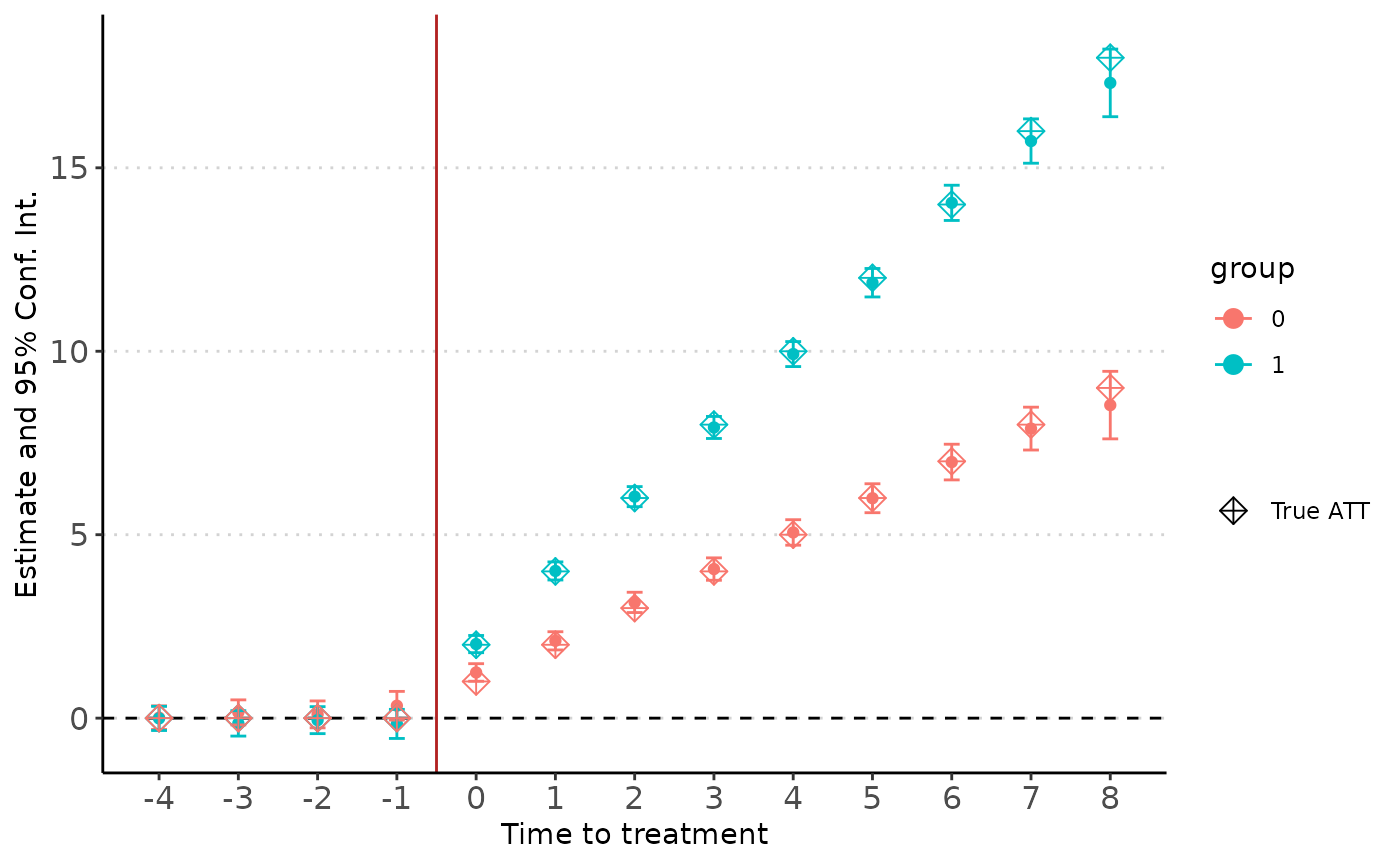
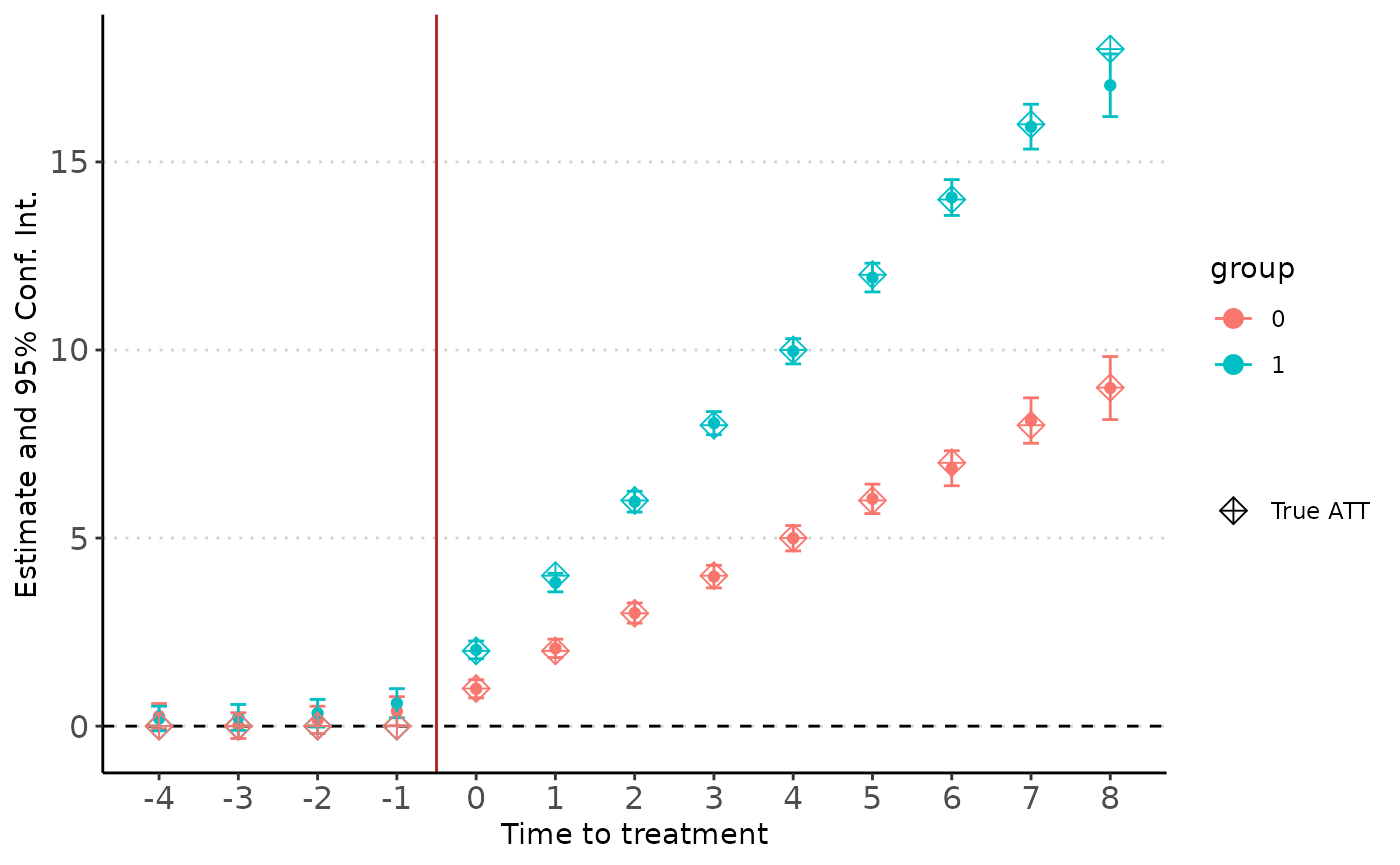
Built site for didImputation: 0.0.4@c97bc9d

diff --git a/articles/Getting_started.html b/articles/Getting_started.html
@@ -175,33 +175,33 @@
 <span class="co">#&gt; Counterfactual model:  y ~ 0 | i + t </span>
 <span class="co">#&gt; Number of cohorts:  4 </span>
 <span class="co">#&gt; Observations: 12000 </span>
-<span class="co">#&gt; |-Treated:    5543 </span>
-<span class="co">#&gt; |-Untreated:  6457 </span>
+<span class="co">#&gt; |-Treated:    5501 </span>
+<span class="co">#&gt; |-Untreated:  6499 </span>
 <span class="co">#&gt;       Estimate Std. Error t value Pr(&gt;|t|) </span>
-<span class="co">#&gt; k::-3 -0.034   0.139      -0.241  0.809    </span>
-<span class="co">#&gt; k::-2 -0.030   0.155      -0.192  0.848    </span>
-<span class="co">#&gt; k::-1  0.062   0.181       0.341  0.733    </span>
-<span class="co">#&gt; k::0   1.058   0.077      13.811  &lt;0.001***</span>
-<span class="co">#&gt; k::1   2.006   0.083      24.305  &lt;0.001***</span>
-<span class="co">#&gt; k::2   3.254   0.104      31.293  &lt;0.001***</span>
-<span class="co">#&gt; k::3   4.271   0.134      31.955  &lt;0.001***</span>
-<span class="co">#&gt; k::4   5.000   0.185      27.020  &lt;0.001***</span>
+<span class="co">#&gt; k::-3 -0.158   0.139      -1.131  0.258    </span>
+<span class="co">#&gt; k::-2 -0.173   0.155      -1.116  0.265    </span>
+<span class="co">#&gt; k::-1 -0.154   0.181      -0.854  0.393    </span>
+<span class="co">#&gt; k::0   0.922   0.074      12.485  &lt;0.001***</span>
+<span class="co">#&gt; k::1   2.066   0.080      25.720  &lt;0.001***</span>
+<span class="co">#&gt; k::2   3.065   0.100      30.761  &lt;0.001***</span>
+<span class="co">#&gt; k::3   4.018   0.125      32.188  &lt;0.001***</span>
+<span class="co">#&gt; k::4   5.088   0.182      28.009  &lt;0.001***</span>
 <span class="co">#&gt; ---</span>
 <span class="co">#&gt; Signif. Code: 0 '***' 0.01 '**' 0.05 '*' 0.1 '' 1 </span>
 <span class="co">#&gt; Wald stats for pre-trends:</span>
-<span class="co">#&gt; Wald (joint nullity): stat = 0.377011, p = 0.769591, on 3 and 6,448 DoF, VCOV: Clustered (i).</span></code></pre></div>
+<span class="co">#&gt; Wald (joint nullity): stat = 0.522024, p = 0.667123, on 3 and 6,490 DoF, VCOV: Clustered (i).</span></code></pre></div>
 <p>You can extract the coefficients table if you want to build your own plot or table.</p>
 <div class="sourceCode" id="cb6"><pre class="downlit sourceCode r">
 <code class="sourceCode R"><span class="va">est</span><span class="op">$</span><span class="va">coeftable</span>
-<span class="co">#&gt;          Estimate Std. Error    t value      Pr(&gt;|t|)</span>
-<span class="co">#&gt; k::-3 -0.03361813 0.13923807 -0.2414435  8.092361e-01</span>
-<span class="co">#&gt; k::-2 -0.02976078 0.15499751 -0.1920081  8.477554e-01</span>
-<span class="co">#&gt; k::-1  0.06174339 0.18121068  0.3407271  7.333448e-01</span>
-<span class="co">#&gt; k::0   1.05767218 0.07658118 13.8111232  2.183995e-43</span>
-<span class="co">#&gt; k::1   2.00583547 0.08252862 24.3047242 1.747357e-130</span>
-<span class="co">#&gt; k::2   3.25436686 0.10399612 31.2931575 5.781895e-215</span>
-<span class="co">#&gt; k::3   4.27119274 0.13366080 31.9554623 4.536532e-224</span>
-<span class="co">#&gt; k::4   4.99965532 0.18503234 27.0204409 8.502296e-161</span></code></pre></div>
+<span class="co">#&gt;         Estimate Std. Error    t value      Pr(&gt;|t|)</span>
+<span class="co">#&gt; k::-3 -0.1576485 0.13932973 -1.1314782  2.579896e-01</span>
+<span class="co">#&gt; k::-2 -0.1725236 0.15465355 -1.1155489  2.647494e-01</span>
+<span class="co">#&gt; k::-1 -0.1542718 0.18072744 -0.8536156  3.934203e-01</span>
+<span class="co">#&gt; k::0   0.9224779 0.07388426 12.4854459  8.963968e-36</span>
+<span class="co">#&gt; k::1   2.0661605 0.08033218 25.7202101 6.946557e-146</span>
+<span class="co">#&gt; k::2   3.0654385 0.09965361 30.7609379 8.731689e-208</span>
+<span class="co">#&gt; k::3   4.0176418 0.12481845 32.1878851 2.607775e-227</span>
+<span class="co">#&gt; k::4   5.0884042 0.18166843 28.0092926 1.252075e-172</span></code></pre></div>
 <p>Finally, we can plot the coefficients from the fully dynamic model using the <code>didplot</code> function (note that you can choose the confidence interval level to report). The results are very close to the true effects:</p>
 <div class="sourceCode" id="cb7"><pre class="downlit sourceCode r">
 <code class="sourceCode R"><span class="fu"><a href="../reference/didplot.html">didplot</a></span><span class="op">(</span><span class="va">est</span><span class="op">)</span> <span class="op">+</span>
@@ -224,21 +224,21 @@
 <span class="co">#&gt; Counterfactual model:  y ~ 0 | i + t </span>
 <span class="co">#&gt; Number of cohorts:  4 </span>
 <span class="co">#&gt; Observations: 12000 </span>
-<span class="co">#&gt; |-Treated:    5543 </span>
-<span class="co">#&gt; |-Untreated:  6457 </span>
+<span class="co">#&gt; |-Treated:    5501 </span>
+<span class="co">#&gt; |-Untreated:  6499 </span>
 <span class="co">#&gt;       Estimate Std. Error t value Pr(&gt;|t|) </span>
-<span class="co">#&gt; k::-3 -0.034   0.139      -0.241  0.809    </span>
-<span class="co">#&gt; k::-2 -0.030   0.155      -0.192  0.848    </span>
-<span class="co">#&gt; k::-1  0.062   0.181       0.341  0.733    </span>
-<span class="co">#&gt; k::0   1.058   0.077      13.811  &lt;0.001***</span>
-<span class="co">#&gt; k::1   2.006   0.083      24.305  &lt;0.001***</span>
-<span class="co">#&gt; k::2   3.254   0.104      31.293  &lt;0.001***</span>
-<span class="co">#&gt; k::3   4.271   0.134      31.955  &lt;0.001***</span>
-<span class="co">#&gt; k::4   5.000   0.185      27.020  &lt;0.001***</span>
+<span class="co">#&gt; k::-3 -0.158   0.139      -1.131  0.258    </span>
+<span class="co">#&gt; k::-2 -0.173   0.155      -1.116  0.265    </span>
+<span class="co">#&gt; k::-1 -0.154   0.181      -0.854  0.393    </span>
+<span class="co">#&gt; k::0   0.922   0.074      12.485  &lt;0.001***</span>
+<span class="co">#&gt; k::1   2.066   0.080      25.720  &lt;0.001***</span>
+<span class="co">#&gt; k::2   3.065   0.100      30.761  &lt;0.001***</span>
+<span class="co">#&gt; k::3   4.018   0.125      32.188  &lt;0.001***</span>
+<span class="co">#&gt; k::4   5.088   0.182      28.009  &lt;0.001***</span>
 <span class="co">#&gt; ---</span>
 <span class="co">#&gt; Signif. Code: 0 '***' 0.01 '**' 0.05 '*' 0.1 '' 1 </span>
 <span class="co">#&gt; Wald stats for pre-trends:</span>
-<span class="co">#&gt; Wald (joint nullity): stat = 0.377011, p = 0.769591, on 3 and 6,448 DoF, VCOV: Clustered (i).</span></code></pre></div>
+<span class="co">#&gt; Wald (joint nullity): stat = 0.522024, p = 0.667123, on 3 and 6,490 DoF, VCOV: Clustered (i).</span></code></pre></div>
 </div>
 <div id="including-other-fixed-effects" class="section level2">
 <h2 class="hasAnchor">
@@ -262,21 +262,21 @@
 <span class="co">#&gt; Counterfactual model:  y ~ 0 | i + t + hdfefactor </span>
 <span class="co">#&gt; Number of cohorts:  4 </span>
 <span class="co">#&gt; Observations: 12000 </span>
-<span class="co">#&gt; |-Treated:    5582 </span>
-<span class="co">#&gt; |-Untreated:  6418 </span>
+<span class="co">#&gt; |-Treated:    5546 </span>
+<span class="co">#&gt; |-Untreated:  6454 </span>
 <span class="co">#&gt;       Estimate Std. Error t value Pr(&gt;|t|) </span>
-<span class="co">#&gt; k::-3  0.017   0.142       0.118  0.906    </span>
-<span class="co">#&gt; k::-2 -0.051   0.162      -0.315  0.753    </span>
-<span class="co">#&gt; k::-1  0.022   0.189       0.117  0.907    </span>
-<span class="co">#&gt; k::0   0.939   0.075      12.489  &lt;0.001***</span>
-<span class="co">#&gt; k::1   1.989   0.082      24.344  &lt;0.001***</span>
-<span class="co">#&gt; k::2   2.952   0.102      28.892  &lt;0.001***</span>
-<span class="co">#&gt; k::3   3.900   0.130      29.917  &lt;0.001***</span>
-<span class="co">#&gt; k::4   4.853   0.188      25.851  &lt;0.001***</span>
+<span class="co">#&gt; k::-3 -0.080   0.137      -0.583  0.56     </span>
+<span class="co">#&gt; k::-2 -0.113   0.154      -0.732  0.464    </span>
+<span class="co">#&gt; k::-1  0.222   0.181       1.222  0.222    </span>
+<span class="co">#&gt; k::0   0.979   0.075      12.975  &lt;0.001***</span>
+<span class="co">#&gt; k::1   2.040   0.082      25.006  &lt;0.001***</span>
+<span class="co">#&gt; k::2   2.926   0.104      28.084  &lt;0.001***</span>
+<span class="co">#&gt; k::3   4.083   0.133      30.783  &lt;0.001***</span>
+<span class="co">#&gt; k::4   5.411   0.185      29.305  &lt;0.001***</span>
 <span class="co">#&gt; ---</span>
 <span class="co">#&gt; Signif. Code: 0 '***' 0.01 '**' 0.05 '*' 0.1 '' 1 </span>
 <span class="co">#&gt; Wald stats for pre-trends:</span>
-<span class="co">#&gt; Wald (joint nullity): stat = 0.297358, p = 0.827338, on 3 and 6,370 DoF, VCOV: Clustered (i).</span></code></pre></div>
+<span class="co">#&gt; Wald (joint nullity): stat = 4.89599, p = 0.002119, on 3 and 6,406 DoF, VCOV: Clustered (i).</span></code></pre></div>
 </div>
 <div id="including-continuous-controls" class="section level2">
 <h2 class="hasAnchor">
@@ -300,28 +300,28 @@
 <span class="co">#&gt; Counterfactual model:  y ~ x1 | i + t </span>
 <span class="co">#&gt; Number of cohorts:  8 </span>
 <span class="co">#&gt; Observations: 20000 </span>
-<span class="co">#&gt; |-Treated:    9802 </span>
-<span class="co">#&gt; |-Untreated:  10198 </span>
+<span class="co">#&gt; |-Treated:    9718 </span>
+<span class="co">#&gt; |-Untreated:  10282 </span>
 <span class="co">#&gt;       Estimate Std. Error t value Pr(&gt;|t|) </span>
-<span class="co">#&gt; k::-5 -0.067   0.103       -0.651 0.515    </span>
-<span class="co">#&gt; k::-4  0.111   0.105        1.056 0.291    </span>
-<span class="co">#&gt; k::-3  0.069   0.116        0.594 0.552    </span>
-<span class="co">#&gt; k::-2  0.076   0.127        0.598 0.55     </span>
-<span class="co">#&gt; k::-1  0.195   0.140        1.400 0.162    </span>
-<span class="co">#&gt; x1     2.007   0.011      178.775 &lt;0.001***</span>
-<span class="co">#&gt; k::0   0.875   0.063       13.918 &lt;0.001***</span>
-<span class="co">#&gt; k::1   2.041   0.066       30.879 &lt;0.001***</span>
-<span class="co">#&gt; k::2   2.891   0.073       39.832 &lt;0.001***</span>
-<span class="co">#&gt; k::3   3.913   0.083       47.422 &lt;0.001***</span>
-<span class="co">#&gt; k::4   4.917   0.093       52.790 &lt;0.001***</span>
-<span class="co">#&gt; k::5   5.946   0.105       56.839 &lt;0.001***</span>
-<span class="co">#&gt; k::6   7.013   0.128       54.910 &lt;0.001***</span>
-<span class="co">#&gt; k::7   7.926   0.160       49.445 &lt;0.001***</span>
-<span class="co">#&gt; k::8   8.981   0.220       40.743 &lt;0.001***</span>
+<span class="co">#&gt; k::-5 -0.020   0.098       -0.205 0.838    </span>
+<span class="co">#&gt; k::-4  0.085   0.101        0.837 0.403    </span>
+<span class="co">#&gt; k::-3 -0.030   0.115       -0.262 0.793    </span>
+<span class="co">#&gt; k::-2  0.045   0.126        0.355 0.723    </span>
+<span class="co">#&gt; k::-1 -0.021   0.139       -0.149 0.882    </span>
+<span class="co">#&gt; x1     2.002   0.011      181.251 &lt;0.001***</span>
+<span class="co">#&gt; k::0   1.046   0.064       16.378 &lt;0.001***</span>
+<span class="co">#&gt; k::1   2.095   0.066       31.535 &lt;0.001***</span>
+<span class="co">#&gt; k::2   3.067   0.076       40.432 &lt;0.001***</span>
+<span class="co">#&gt; k::3   4.018   0.086       46.511 &lt;0.001***</span>
+<span class="co">#&gt; k::4   5.225   0.096       54.392 &lt;0.001***</span>
+<span class="co">#&gt; k::5   6.048   0.108       55.910 &lt;0.001***</span>
+<span class="co">#&gt; k::6   6.947   0.130       53.495 &lt;0.001***</span>
+<span class="co">#&gt; k::7   7.945   0.161       49.407 &lt;0.001***</span>
+<span class="co">#&gt; k::8   9.169   0.243       37.784 &lt;0.001***</span>
 <span class="co">#&gt; ---</span>
 <span class="co">#&gt; Signif. Code: 0 '***' 0.01 '**' 0.05 '*' 0.1 '' 1 </span>
 <span class="co">#&gt; Wald stats for pre-trends:</span>
-<span class="co">#&gt; Wald (joint nullity): stat = 5,343.1, p &lt; 2.2e-16, on 6 and 10,182 DoF, VCOV: Clustered (i).</span></code></pre></div>
+<span class="co">#&gt; Wald (joint nullity): stat = 5,499.1, p &lt; 2.2e-16, on 6 and 10,266 DoF, VCOV: Clustered (i).</span></code></pre></div>
 </div>
 <div id="heterogeneity" class="section level2">
 <h2 class="hasAnchor">
